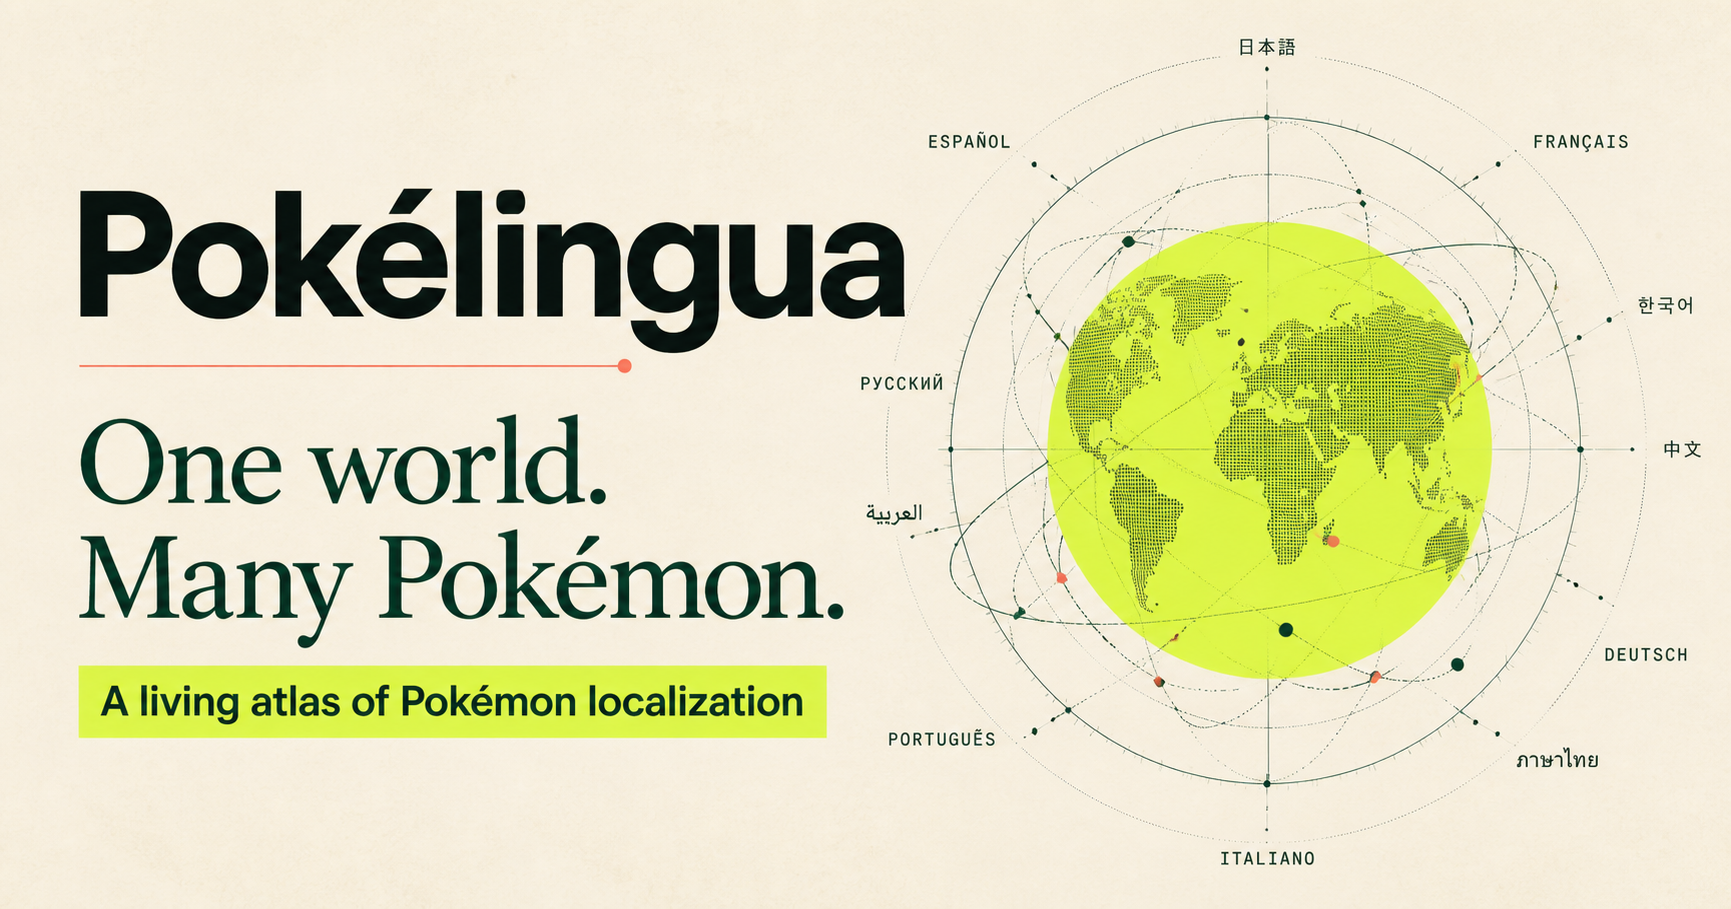
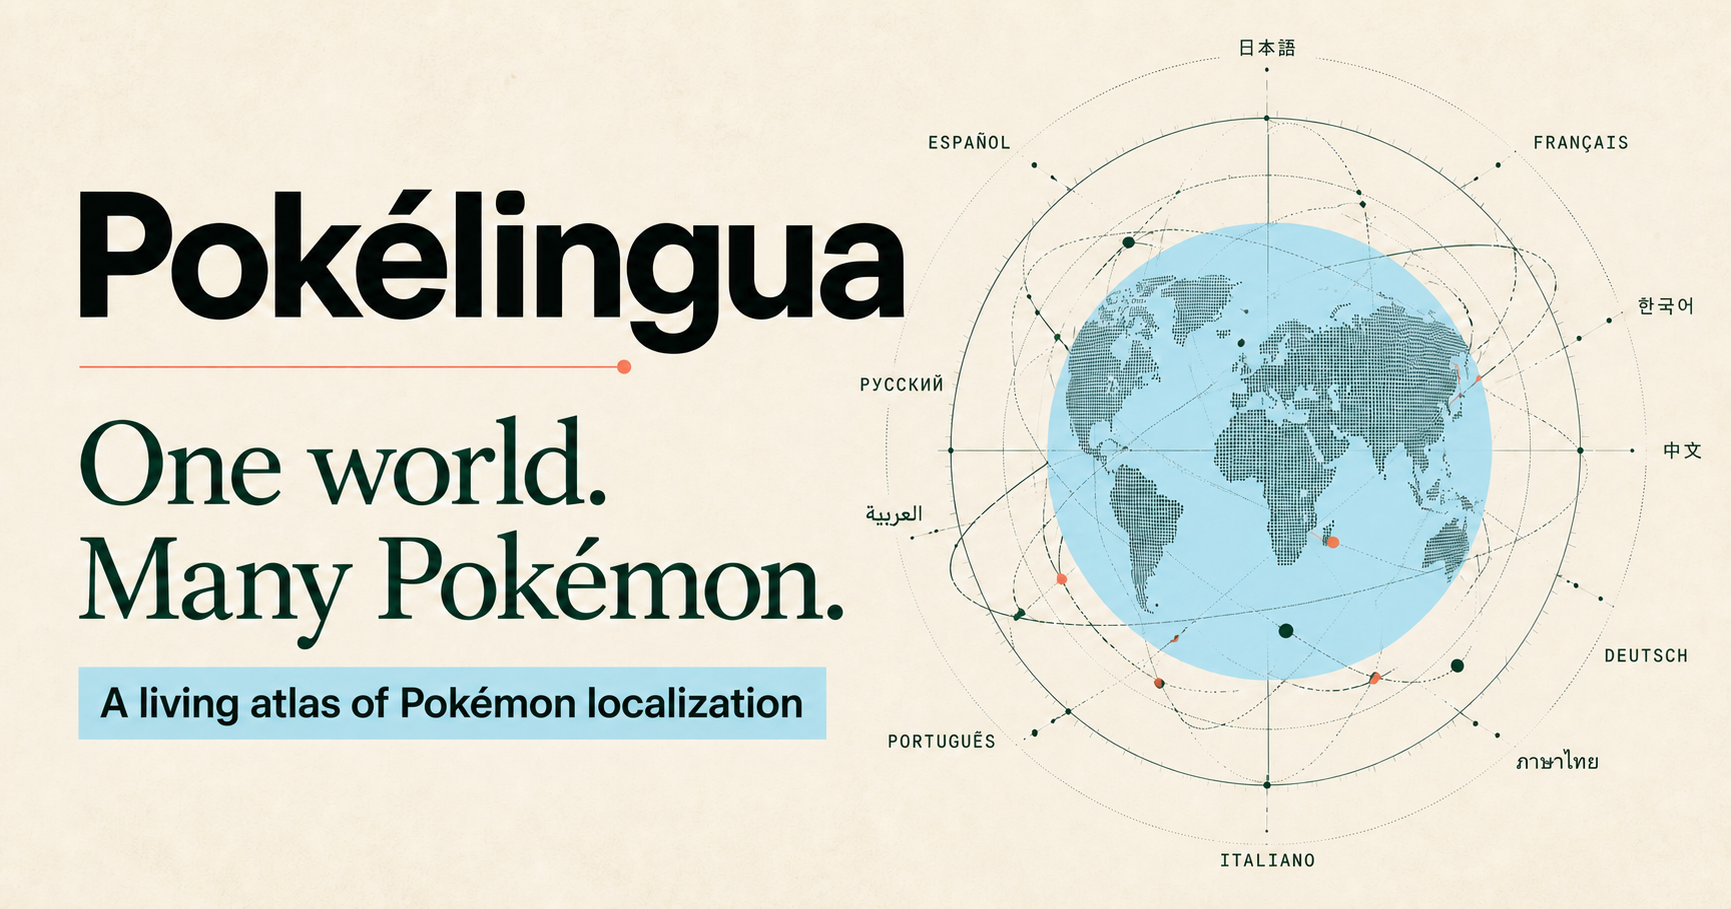
Refresh introduction lenses and site accent

diff --git a/app/globals.css b/app/globals.css
@@ -4,7 +4,7 @@
   --ink: #18211c;
   --paper: #f4f0e7;
   --cream: #fbf8f0;
-  --acid: #d8ff45;
+  --acid: #9ed8e8;
   --moss: #254e3c;
   --orange: #f05a38;
   --line: rgba(24, 33, 28, .2);
@@ -229,9 +229,17 @@ footer p { margin-right: auto; font: 14px Georgia, serif; } footer > a:last-chil
 .intro-lenses-head > span { grid-column: 1 / -1; }
 .intro-lenses-head p { margin-bottom: 0; font: 19px/1.65 Georgia,serif; }
 .intro-lens-grid { display: grid; grid-template-columns: repeat(3,1fr); margin-top: 65px; border-top: 1px solid var(--ink); border-left: 1px solid var(--ink); }
-.intro-lens-grid article { min-height: 390px; padding: 28px; border-right: 1px solid var(--ink); border-bottom: 1px solid var(--ink); display: flex; flex-direction: column; }
-.intro-lens-grid article > span { color: var(--orange); font: 700 16px "Courier New",monospace; }
-.intro-lens-grid h3 { margin: auto 0 20px; font-size: 38px; line-height: 1; letter-spacing: -.04em; }
+.intro-lens-grid article { position: relative; min-height: 430px; padding: 32px; overflow: hidden; border-right: 1px solid var(--ink); border-bottom: 1px solid var(--ink); display: flex; flex-direction: column; }
+.intro-lens-ball { position: relative; width: 132px; height: 132px; flex: 0 0 auto; overflow: hidden; border: 7px solid var(--ink); border-radius: 50%; background: linear-gradient(#d9463e 0 50%,#f7f2e7 50%); box-shadow: 11px 12px 0 rgba(22,35,28,.13); transform: rotate(-7deg); }
+.intro-lens-grid article:nth-child(2) .intro-lens-ball { transform: rotate(5deg); }
+.intro-lens-grid article:nth-child(3) .intro-lens-ball { transform: rotate(-3deg); }
+.intro-lens-ball:before { content: ""; position: absolute; z-index: 2; left: 0; right: 0; top: 50%; height: 13px; transform: translateY(-50%); background: var(--ink); }
+.intro-lens-ball:after { content: ""; position: absolute; z-index: 3; left: 50%; top: 50%; width: 38px; height: 38px; transform: translate(-50%,-50%); border: 9px solid var(--ink); border-radius: 50%; background: #f7f2e7; }
+.intro-lens-ball > span { position: absolute; z-index: 4; left: 50%; top: 50%; width: 12px; height: 12px; transform: translate(-50%,-50%); border: 2px solid rgba(22,35,28,.42); border-radius: 50%; background: white; }
+.intro-lens-ball.great { background: linear-gradient(135deg,transparent 0 22%,#d9463e 23% 34%,transparent 35%) top left/52% 52% no-repeat,linear-gradient(225deg,transparent 0 22%,#d9463e 23% 34%,transparent 35%) top right/52% 52% no-repeat,linear-gradient(#2875ad 0 50%,#f7f2e7 50%); }
+.intro-lens-ball.master { background: radial-gradient(circle at 23% 26%,#e5a0c8 0 16%,transparent 17%),radial-gradient(circle at 77% 26%,#e5a0c8 0 16%,transparent 17%),linear-gradient(#7050a3 0 50%,#f7f2e7 50%); }
+.intro-lens-ball.master > i:after { content: "M"; position: absolute; z-index: 1; left: 50%; top: 15px; transform: translateX(-50%); color: white; font: 900 31px/1 Arial,sans-serif; text-shadow: 1px 2px 0 rgba(22,35,28,.32); }
+.intro-lens-grid h3 { margin: auto 0 20px; padding-top: 42px; font-size: 38px; line-height: 1; letter-spacing: -.04em; }
 .intro-lens-grid p { margin: 0; font: 17px/1.65 Georgia,serif; }
 .intro-record { display: grid; grid-template-columns: .75fr 1.25fr; border-bottom: 1px solid var(--ink); background: #e8dfd0; }
 .intro-record > div:first-child { padding: 90px 6vw; border-right: 1px solid var(--ink); }

diff --git a/app/introduction/page.tsx b/app/introduction/page.tsx
@@ -6,9 +6,9 @@ export const metadata: Metadata = {
 };
 
 const exhibitLenses = [
-  { number: "01", title: "Names are design", text: "A Pokémon name can carry anatomy, sound, humor, mythology, and marketing at once. Translating it means deciding which ideas should survive—and what will feel memorable in another language." },
-  { number: "02", title: "Media arrive differently", text: "A television dub may establish a locale years before a translated game. Cards, cinemas, websites, mobile services, and retail can each introduce another vocabulary and another official date." },
-  { number: "03", title: "Audiences keep the archive", text: "Older names do not disappear when a company changes policy. They remain in childhood memory, recorded broadcasts, packaging, fan speech, and sometimes public controversy." },
+  { ball: "poke", title: "Names are design", text: "A Pokémon name can carry anatomy, sound, humor, mythology, and marketing at once. Translating it means deciding which ideas should survive—and what will feel memorable in another language." },
+  { ball: "great", title: "Media arrive differently", text: "A television dub may establish a locale years before a translated game. Cards, cinemas, websites, mobile services, and retail can each introduce another vocabulary and another official date." },
+  { ball: "master", title: "Audiences keep the archive", text: "Older names do not disappear when a company changes policy. They remain in childhood memory, recorded broadcasts, packaging, fan speech, and sometimes public controversy." },
 ];
 
 const readingRoutes = [
@@ -53,7 +53,7 @@ export default function IntroductionPage() {
 
     <section className="intro-lenses" id="lenses">
       <div className="intro-lenses-head"><span>Three exhibition lenses / 02</span><h2>Translation leaves<br /><em>evidence.</em></h2><p>Pokélingua treats every name, date, script, and release as a record of a decision—not as trivia detached from the people and media that carried it.</p></div>
-      <div className="intro-lens-grid">{exhibitLenses.map((lens) => <article key={lens.number}><span>{lens.number}</span><h3>{lens.title}</h3><p>{lens.text}</p></article>)}</div>
+      <div className="intro-lens-grid">{exhibitLenses.map((lens) => <article key={lens.title}><div className={`intro-lens-ball ${lens.ball}`} aria-hidden="true"><i /><span /></div><h3>{lens.title}</h3><p>{lens.text}</p></article>)}</div>
     </section>
 
     <section className="intro-record">
